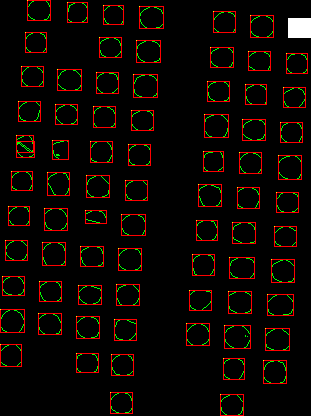
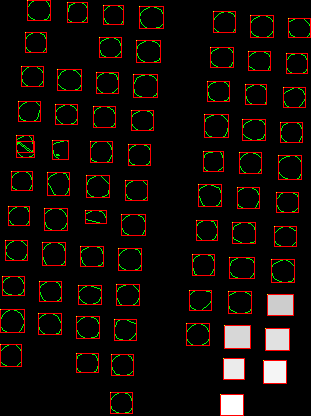
feat: ajout assignation des labels

Changed region(s): [[0.8392, 0.6875, 0.955, 0.9375], [0.6945, 0.7812, 0.8103, 1.0], [0.926, 0.0312, 1.0, 0.0938]]

diff --git a/src/DatasetGeneration.py b/src/DatasetGeneration.py
@@ -1,3 +1,4 @@
+from collections import namedtuple
 import numpy as np
 from pathlib import Path
 
@@ -5,6 +6,9 @@ import cv2
 import pickle
 from pyimzml.ImzMLParser import ImzMLParser
 from sklearn.model_selection import train_test_split
+
+
+Position = namedtuple('Position', ['x', 'y'])
 
 
 class TissueSample():
@@ -84,6 +88,10 @@ class TMADataset:
     return valid_coordinates
 
   def bounding_boxes_of_tissue_samples(self):
+    """
+    Récupère les boites encadrantes pour chaque échantillon de tissue
+    et les ajoutes a la liste self.tissue_samples
+    """
     # (416, 311)
     assert self.valid_coordinates.shape == (416, 311)
     gray_image = self.valid_coordinates.astype(dtype=np.uint8) 
@@ -134,6 +142,7 @@ class TMADataset:
   def set_spectrums_of_tissue(self, sample: TissueSample):
     """
     Récupère chaque spectre de chaque point de relevé valide du tissue
+    bounding_boxes_of_tissue_samples() doit avoir été lancée une fois avant
     """
     intensities = []
     for x in range(sample.x1, sample.x2):
@@ -166,15 +175,47 @@ class TMADataset:
         pickle.dump(self.tissue_samples, temp_f)
 
   def manually_assign_labels(self):
+    # {(x:, y:) : label}
+    pos_to_label = {
+      # H: 1 -> 11
+      Position(28, 297) : '',
+      Position(64, 297) : '',
+      Position(99, 297) : 'cc',
+      Position(133, 291) : 'cc',
+      Position(166, 291) : 'cc',
+      Position(205, 291) : 'chc',
+      Position(235, 280) : 'chc',
+      Position(270, 280) : 'chc',
+      Position(305, 280) : 'chc',
+      Position(340, 275) : 'cc',
+      Position(374, 280) : 'cc',
+      # G: 1 -> 12
+      Position(27, 258) : 'chc',
+      Position(62, 258) : 'chc',
+      Position(96, 254) : 'chc',
+      Position(130, 254) : 'chc',
+      Position(163, 250) : 'cc',
+      Position(200, 246) : 'cc',
+      Position(233, 240) : 'cc',
+      Position(268, 240) : 'cc',
+      Position(302, 238) : 'chc',
+      Position(337, 235) : '',
+      Position(369, 232) : '',
+      Position(406, 230) : '',
+    }
+    def _point_in_rec(pos: Position, x1, y1, x2, y2):
+      if pos.x > x1 and pos.x < x2 and pos.y > y1 and pos.y < y2:
+        return True 
+      return False
     # (416, 311)
     for sample in self.tissue_samples:
-      # if sample.x1 > 5 and sample.x1 < 40 and sample.y1 > 250 and 
-      # print(sample)
-      if sample.y2 >= 308:
-        print(sample)
-        self.test_image[sample.x1:sample.x2+1, sample.y1:sample.y2+1] = 255   
-        cv2.imwrite("hm.png", self.test_image)
-        exit(1)
+       # NOTE: pour chaque valeur de pos_to_label
+       # si point dans carré du sample, alors j'assigne label
+      for pos, label in pos_to_label.items():
+        if _point_in_rec(pos, x1=sample.x1, y1=sample.y1, x2=sample.x2, y2=sample.y2):
+          sample.label = label
+          # self.test_image[sample.x1+1:sample.x2, sample.y1+1:sample.y2] = 255   
+          # cv2.imwrite("hm.png", self.test_image)
   
   def data_generator(self):
     for sample in self.tissue_samples:
@@ -203,10 +244,4 @@ class TMADataset:
       with open(dataset_path, 'wb') as data_pkl_f:
         pickle.dump((X_train, X_test, y_train, y_test), data_pkl_f)
       return X_train, X_test, y_train, y_test
-
-
-# def show_im(p, mz_value=2400):
-#   im = getionimage(p, mz_value)
-#   plt.imshow(im, cmap='viridis', interpolation ='nearest')
-#   plt.show()
 
